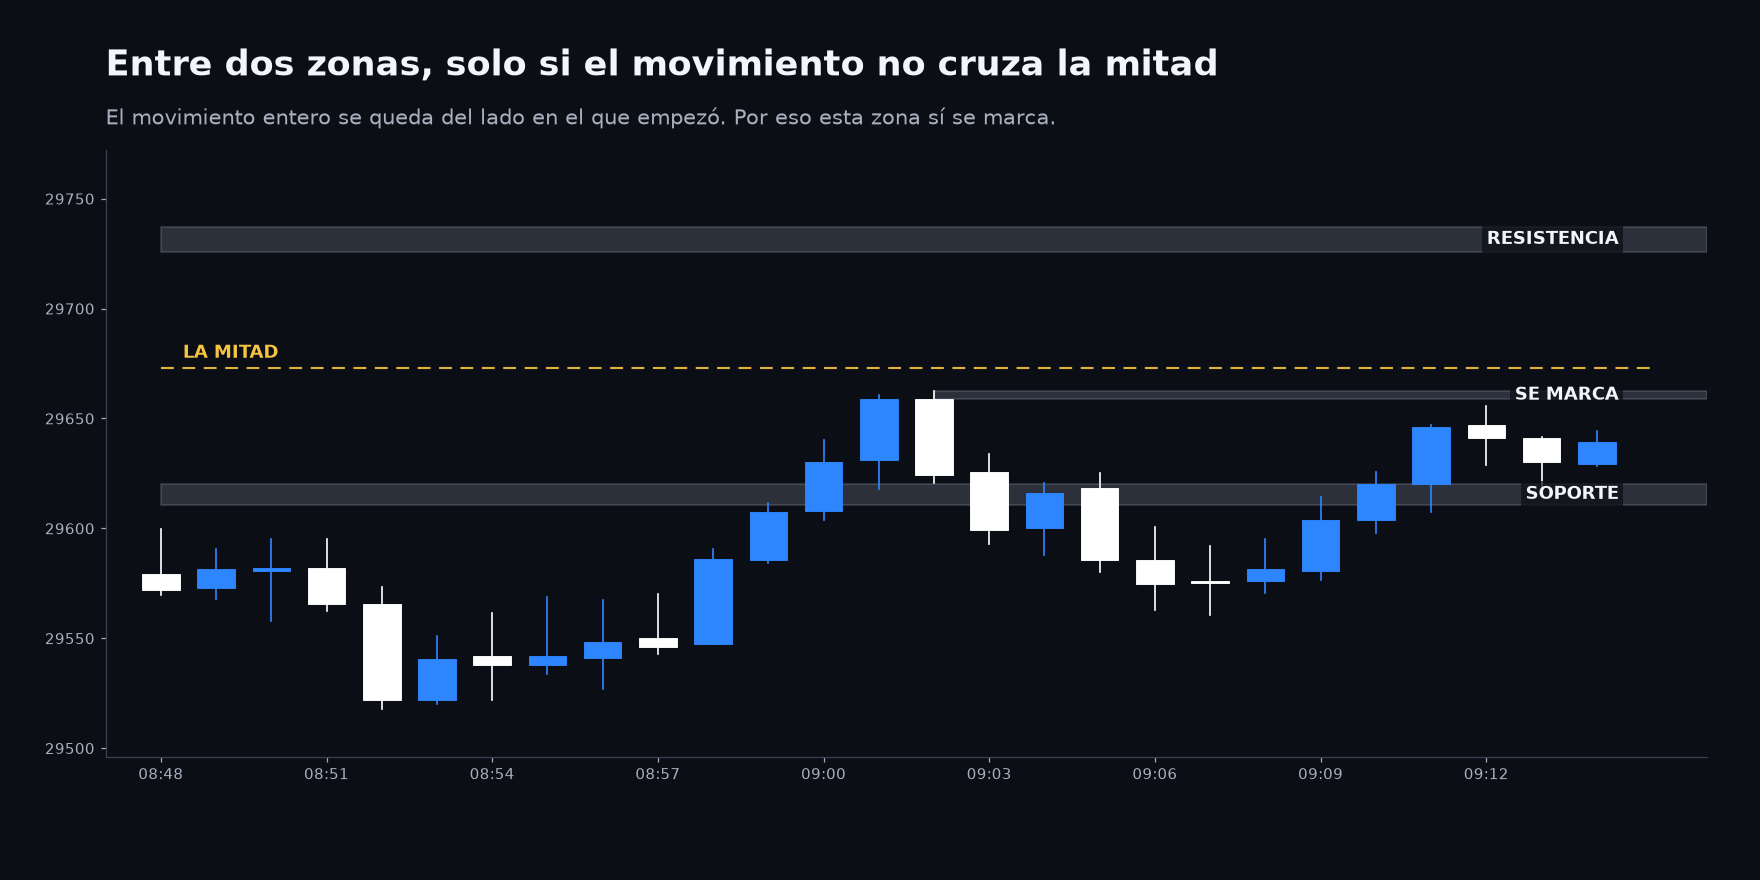
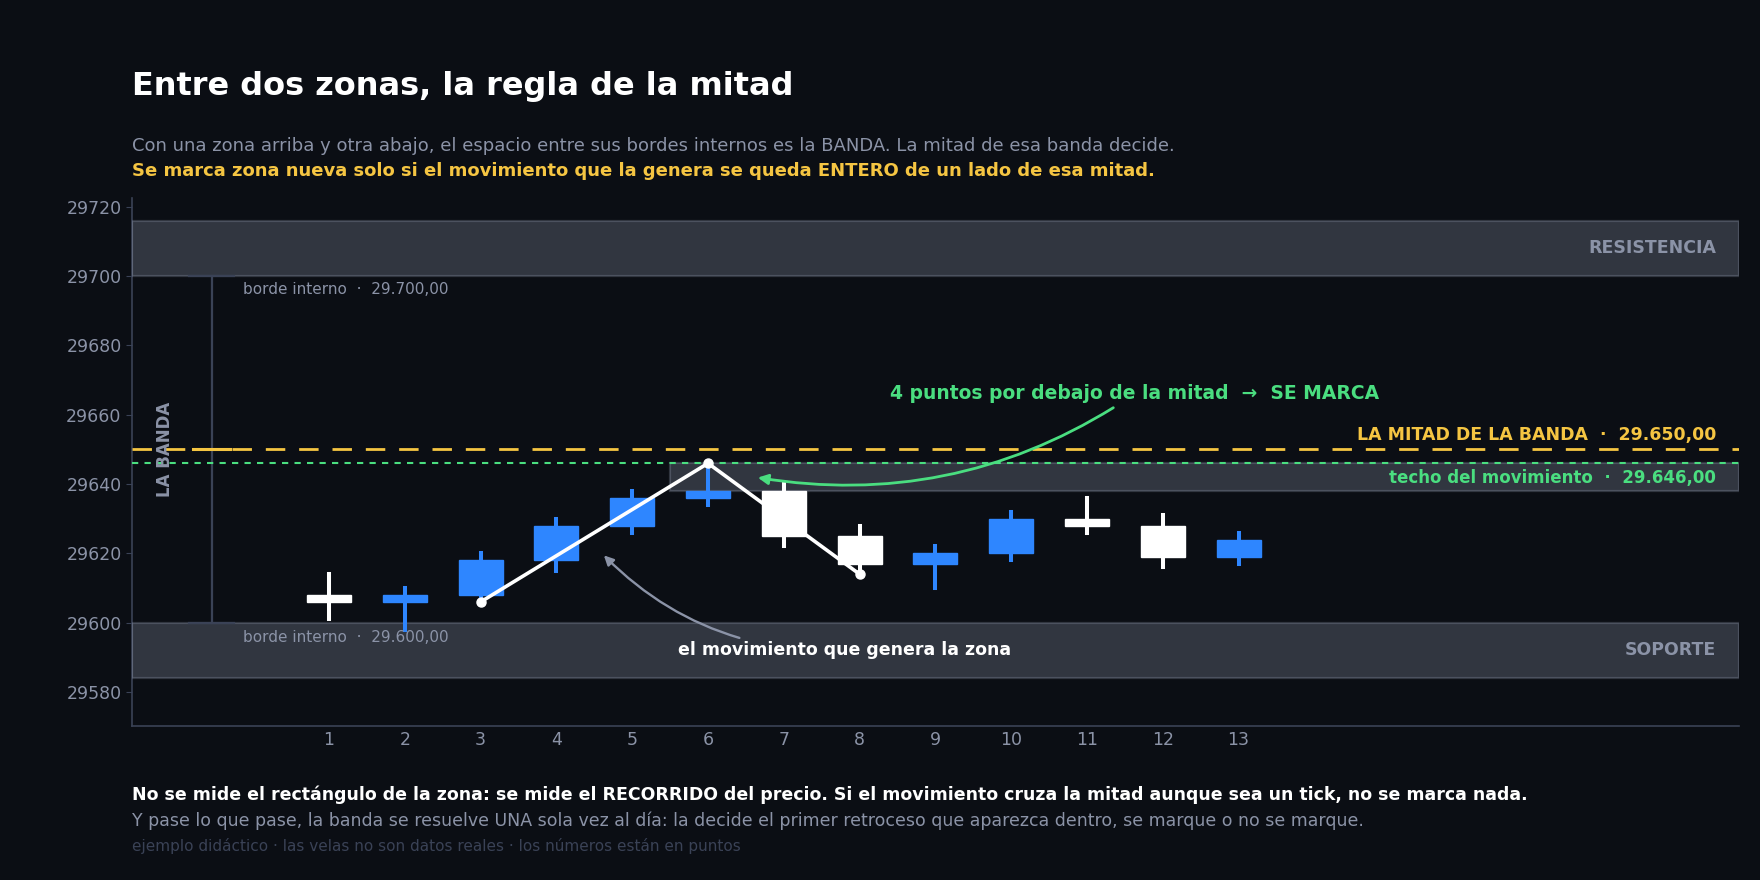
fix(portal): la pared invisible era text-wrap balance en todos los titulos
Reportada ocho veces. Las siete anteriores arregle topes de ancho; la causa
de los titulos era otra: `text-wrap: balance` reparte el titular en lineas
de igual longitud, asi que corta antes del borde. No es un max-width, por eso
el vigilante no lo veia. Ahora `pretty` en todo el portal.

En el banner ademas: fuera el tope de 44rem de la entradilla (era una
excepcion `ancho-ok` escrita por mi, el agujero por el que volvio) y los
cuatro datos pasan de flex a rejilla, para llegar al borde. Las tres
tarjetas, en una sola fila.

El vigilante aprende las dos cosas: rechaza `text-wrap: balance` y no admite
NINGUNA excepcion en portada, banner y tarjetas. Comprobado que falla al
reintroducir la pared a proposito.

diff --git a/04_Web/src/estilos/base.css b/04_Web/src/estilos/base.css
@@ -42,7 +42,13 @@ h1, h2, h3, h4 {
   letter-spacing: var(--track-titulo);
   font-weight: var(--peso-fuerte);
   margin: var(--e-6) 0 var(--e-3);
-  text-wrap: balance;
+  /* `pretty`, NUNCA `balance`. `balance` reparte el titular en lineas de
+     igual longitud: corta antes del borde y deja una franja vacia a la
+     derecha. Es la «pared invisible» que el operador reporto ocho veces, y
+     no la veia el verificador porque no es un max-width. `pretty` llena la
+     linea y solo evita que la ultima quede con una palabra suelta.
+     `npm run verificar` ahora falla si alguien vuelve a poner `balance`. */
+  text-wrap: pretty;
 }
 h1 { font-size: var(--t-8); margin-top: 0; }
 h2 { font-size: var(--t-7); }
@@ -376,7 +382,7 @@ body:not(.tecnico) .ref:hover { color: var(--acento); }
   margin: 0 0 var(--e-5);
   font-size: var(--t-7);
   color: var(--texto);
-  text-wrap: balance;
+  text-wrap: pretty;
 }
 .ap > h2 .ref-cod { letter-spacing: 0; }
 .ap > h3 { margin: var(--e-6) 0 var(--e-3); font-size: var(--t-6); }
